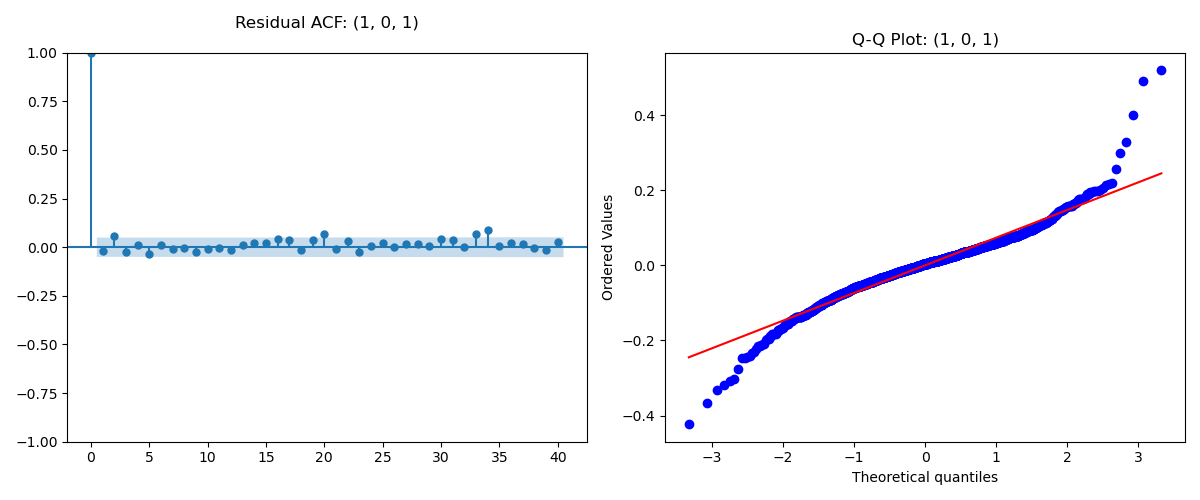
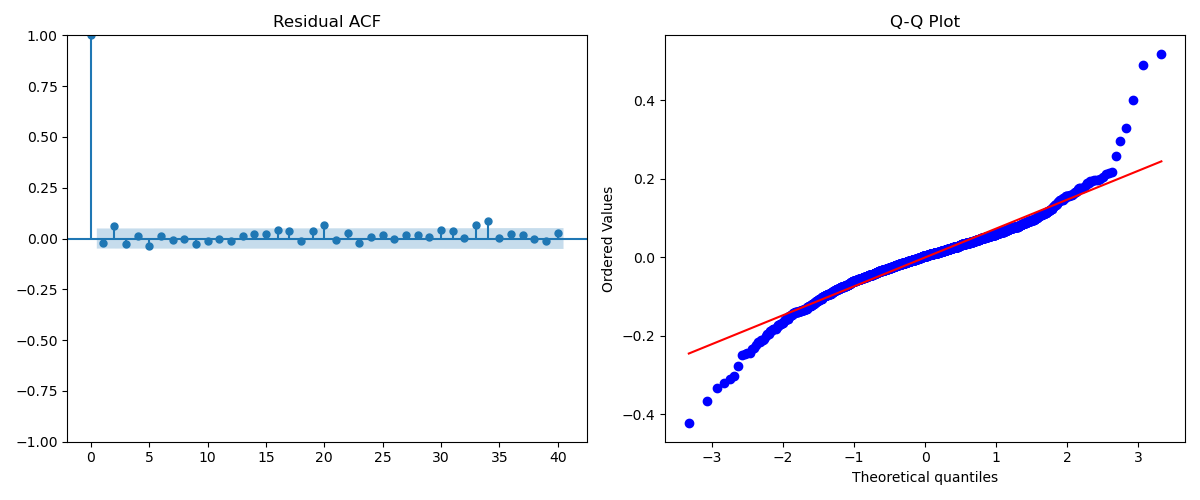
final

diff --git a/test_log_diff.py b/test_log_diff.py
@@ -1,0 +1,128 @@
+# -*- coding: utf-8 -*-
+
+import os
+import warnings
+import numpy as np
+import pandas as pd
+import matplotlib.pyplot as plt  # ✅ 新增
+from statsmodels.tsa.stattools import adfuller, kpss
+from statsmodels.stats.diagnostic import het_arch
+from statsmodels.graphics.tsaplots import plot_acf, plot_pacf  # ✅ 新增
+
+# =========================
+# 配置参数
+# =========================
+TRAIN_PATH = "delhi_climate_train.csv"
+DATE_COL = "date"
+TARGET_COL = "meantemp"
+DIFF_ORDER = 1
+LOG_EPS = 1e-8
+
+
+# =========================
+
+def load_timeseries(path: str, date_col: str, target_col: str) -> pd.Series:
+    df = pd.read_csv(path, parse_dates=[date_col])
+    df = df.sort_values(date_col)
+    if df[date_col].duplicated().any():
+        df = df[~df[date_col].duplicated(keep="first")]
+    df = df.set_index(date_col)
+    return pd.to_numeric(df[target_col], errors="coerce").dropna()
+
+
+def safe_log(y: pd.Series, eps: float = 1e-8) -> pd.Series:
+    min_val = float(y.min())
+    if min_val <= 0:
+        y = y + abs(min_val) + eps
+    return np.log(y)
+
+
+def difference(y: pd.Series, d: int = 1) -> pd.Series:
+    z = y.copy()
+    for _ in range(d):
+        z = z.diff()
+    return z.dropna()
+
+
+def plot_acf_pacf(y: pd.Series, lags: int = 40):
+    """绘制 ACF 和 PACF 图"""
+    fig, axes = plt.subplots(1, 2, figsize=(15, 5))
+
+    # ACF
+    plot_acf(y, lags=lags, ax=axes[0], title=f"ACF")
+    # PACF
+    plot_pacf(y, lags=lags, ax=axes[1], title=f"PACF")
+
+    plt.tight_layout()
+    plt.show()
+
+
+# -------------------------
+# 统计检验函数
+# -------------------------
+def adf_test(x: pd.Series) -> dict:
+    res = adfuller(x, autolag="AIC")
+    return {
+        "test": "ADF (单位根检验)",
+        "pvalue": res[1],
+        "decision": "stationary" if res[1] <= 0.05 else "non-stationary"
+    }
+
+
+def kpss_test(x: pd.Series, regression: str = "c") -> dict:
+    with warnings.catch_warnings():
+        warnings.simplefilter("ignore")
+        _, pval, _, _ = kpss(x, regression=regression, nlags="auto")
+    return {
+        "test": f"KPSS ({'趋势' if regression == 'ct' else '水平'}平稳检验)",
+        "pvalue": pval,
+        "decision": "stationary" if pval > 0.05 else "non-stationary"
+    }
+
+
+def arch_lm_test(x: pd.Series, lags: int = 12) -> dict:
+    lm_stat, lm_pval, _, _ = het_arch(x, nlags=lags)
+    return {
+        "test": f"ARCH-LM (异方差检验, lags={lags})",
+        "pvalue": lm_pval,
+        "decision": "heteroskedastic" if lm_pval <= 0.05 else "homoskedastic"
+    }
+
+
+def main():
+    if not os.path.exists(TRAIN_PATH):
+        print(f"错误: 找不到文件 {TRAIN_PATH}")
+        return
+
+    # 1. 加载与变换
+    print(f"正在处理训练集: {TRAIN_PATH}...")
+    y = load_timeseries(TRAIN_PATH, DATE_COL, TARGET_COL)
+    y_log = safe_log(y, eps=LOG_EPS)
+    y_log_diff = difference(y_log, d=DIFF_ORDER)
+
+    # 2. 绘制 ACF / PACF
+    # 这有助于确定 ARIMA 模型的 p 和 q 参数
+    plot_acf_pacf(y_log_diff, lags=40)
+
+    # 3. 统计检验
+    results = [
+        adf_test(y_log_diff),
+        kpss_test(y_log_diff, regression="c"),
+        kpss_test(y_log_diff, regression="ct"),
+        arch_lm_test(y_log_diff, lags=12),
+        arch_lm_test(y_log_diff, lags=24)
+    ]
+
+    # 4. 打印结果
+    print("\n" + "=" * 50)
+    print(f" 训练集检验结果: d{DIFF_ORDER}(log({TARGET_COL}))")
+    print("=" * 50)
+    for r in results:
+        print(f"[{r['test']}]")
+        print(f"  P-Value: {r['pvalue']:.4f}")
+        print(f"  Decision: {r['decision']}")
+        print("-" * 20)
+
+
+if __name__ == "__main__":
+    main()

diff --git a/model_ARIMA.py b/model_ARIMA.py
@@ -53,11 +53,11 @@ def main():
     print(f"Data Preprocessing Complete (Log + Diff). Valid Observations: {len(processed_data)}")
 
     # B. Grid Search (p: 0-5, q: 0-5)
-    p_values = range(0, 6)
-    q_values = range(0, 6)
+    p_values = range(0, 10)
+    q_values = range(0, 10)
     results_list = []
 
-    print(f"\nStarting Grid Search for ARIMA(p, 0, q)...")
+    print(f"\nStarting Grid Search for ARIMA(p, 1, q)...")
 
     for p in p_values:
         for q in q_values:
@@ -96,15 +96,10 @@ def main():
     # E. Diagnostics & Parameter Saving (Best Model Only)
     best_res = ARIMA(processed_data, order=best_order).fit()
 
-    # --- 1. Save Model Parameters and Summary ---
-    params_path = OUTPUT_DIR / f"ARIMA_{best_order}_Params.csv"
-    best_res.params.to_csv(params_path)
-
     summary_path = OUTPUT_DIR / f"ARIMA_{best_order}_Summary.txt"
     with open(summary_path, "w") as f:
         f.write(best_res.summary().as_text())
 
-    print(f"Parameters saved to: {params_path}")
     print(f"Summary saved to: {summary_path}")
 
     # --- 2. Statistical Testing (Ljung-Box) ---
@@ -117,11 +112,11 @@ def main():
 
     # Residual ACF
     plot_acf(best_res.resid, lags=40, ax=axes[0])
-    axes[0].set_title(f"Residual ACF: {best_order}\n")
+    axes[0].set_title(f"Residual ACF")
 
     # Q-Q Plot
     stats.probplot(best_res.resid, dist="norm", plot=axes[1])
-    axes[1].set_title(f"Q-Q Plot: {best_order}")
+    axes[1].set_title(f"Q-Q Plot")
 
     plt.tight_layout()
     diag_plot_path = OUTPUT_DIR / f"Diagnostic_{best_order}.png"
